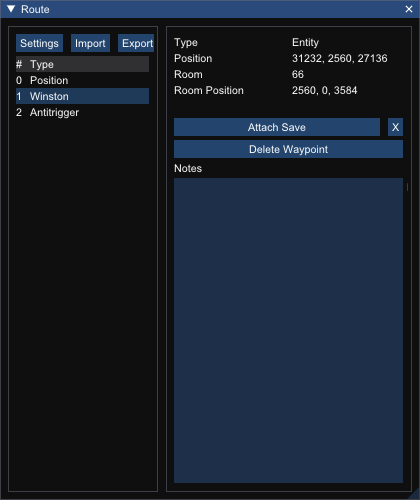
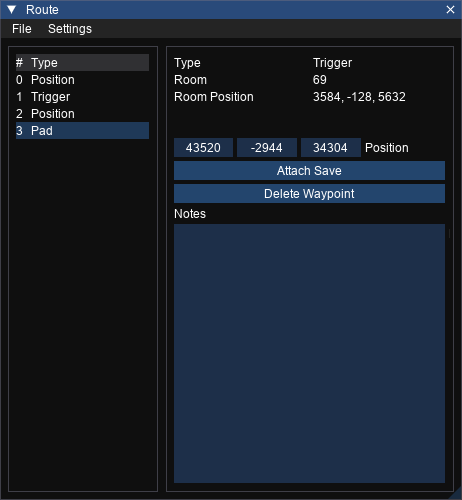
Route window docs

Changed region(s): [[0.0, 0.0, 0.9905, 0.99]]

diff --git a/doc/routewindow.md b/doc/routewindow.md
@@ -6,19 +6,36 @@ Shows the list of waypoints in the current route and allows them to be edited an
 
 ![Route Window](route.png)
 
+
+## File
+
+![Route Window File](route_file.png)
+
+### New
+
+Create a new route.
+
+### Open
+
+Opens a dialog to select a trview route file to import. Opening a route file will replace the current route.
+
+### Reload
+
+Reloads the currently opened route from the file it was loaded from.
+
+### Save
+
+Saves the route to the currently opened route file.
+
+### Save As
+
+Opens a dialog to export a trview route file to file.
+
 ## Settings
 
 ![Route Window Settings](route_settings.png)
 
-Clicking on the settings button will allow you to change route and waypoint colours. Clicking on each coloured square will show a colour picker dialog. The colours you choose will be used in the 3D view.
-
-## Import
-
-Opens a dialog to select a trview route file to import. Importing a route file will replace the current route.
-
-## Export
-
-Opens a dialog to export a trview route file to file.
+Clicking on the settings button will allow you to change route and waypoint colours. Clicking on each coloured square will show a colour picker dialog. The colours you choose will be used in the 3D view. The visiblity of the line between waypoints can also be toggled.
 
 ## Waypoint List
 
@@ -44,9 +61,8 @@ A save file can be attached to each waypoint.
 
 Button | Action | Note
 ---|---|---
-Attach Save | Opens a dialog to select a save file | Only available when there is no file attached
+Attach Save | Opens a dialog to select a save file | Only available when there is no file attached. Right clicking the button when a save is attached will allow you to remove the attachment.
 SAVEGAME.0 | Opens a dialog to export the attached save file | Only available when there is a file attached
-`X` | Remove the attached save file | 
 
 ## Delete Waypoint
 Deletes the waypoint from the route.
@@ -54,4 +70,6 @@ Deletes the waypoint from the route.
 ## Notes
 Shows and allows editing of the notes associated with this waypoint.
 
-The selected waypoint will have its details shown in the right panel. The notes for the route can be edited by typing in the 'Notes' text area.
+The selected waypoint will have its details shown in the right panel. The notes for the route can be edited by typing in the 'Notes' text area. These notes are visible in the Viewer when the Notes view option is enabled.
+
+![Route Notes](route_notes.png)
